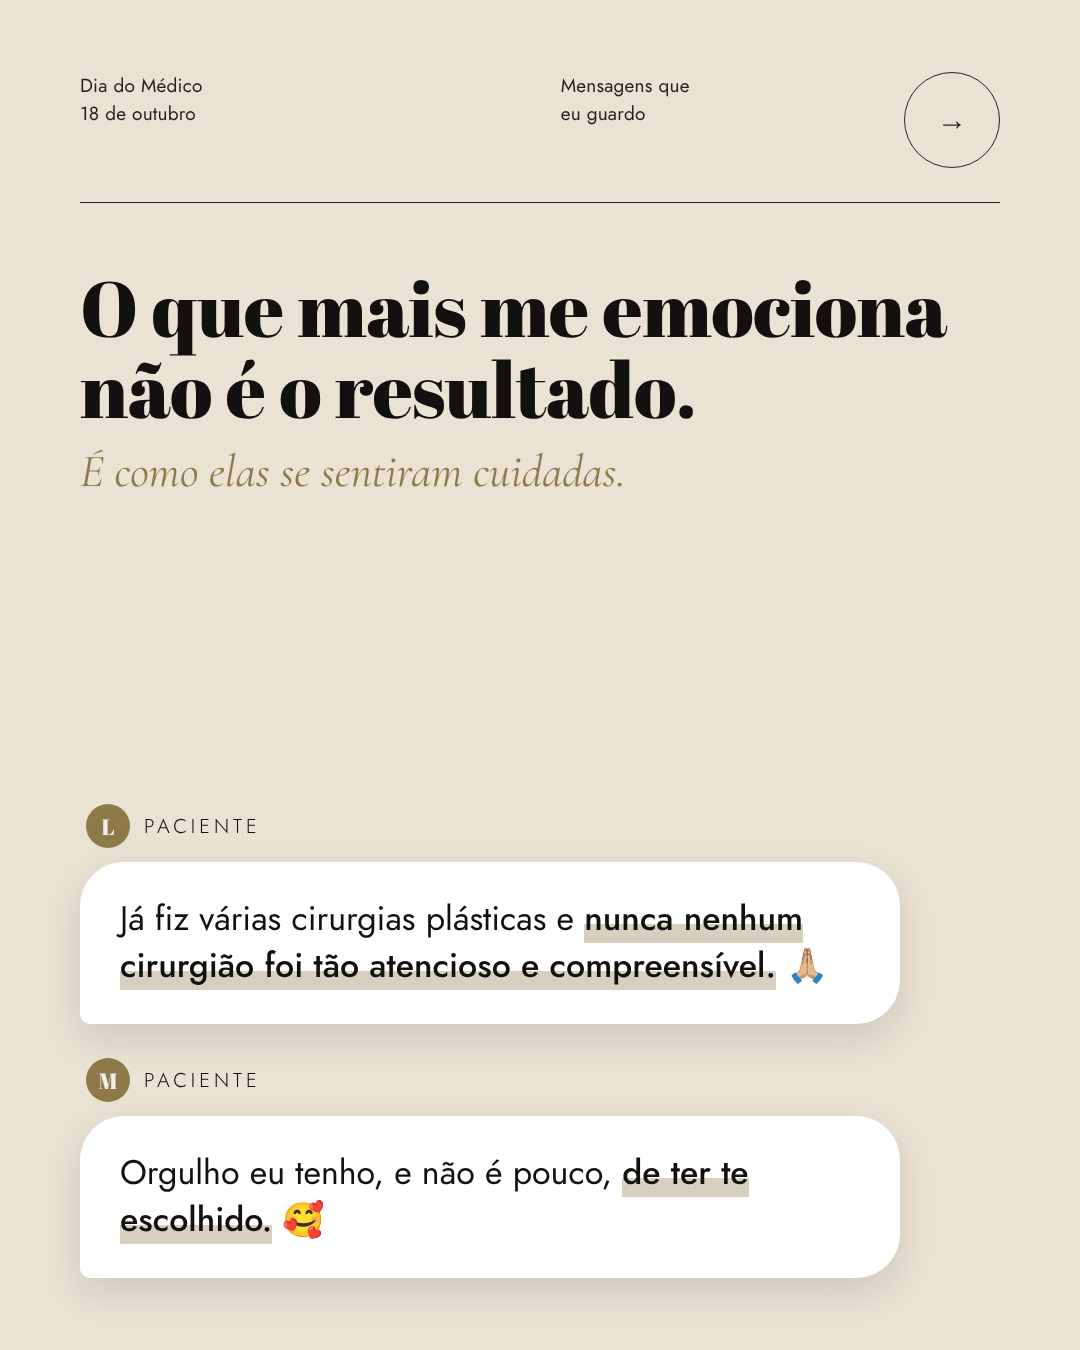
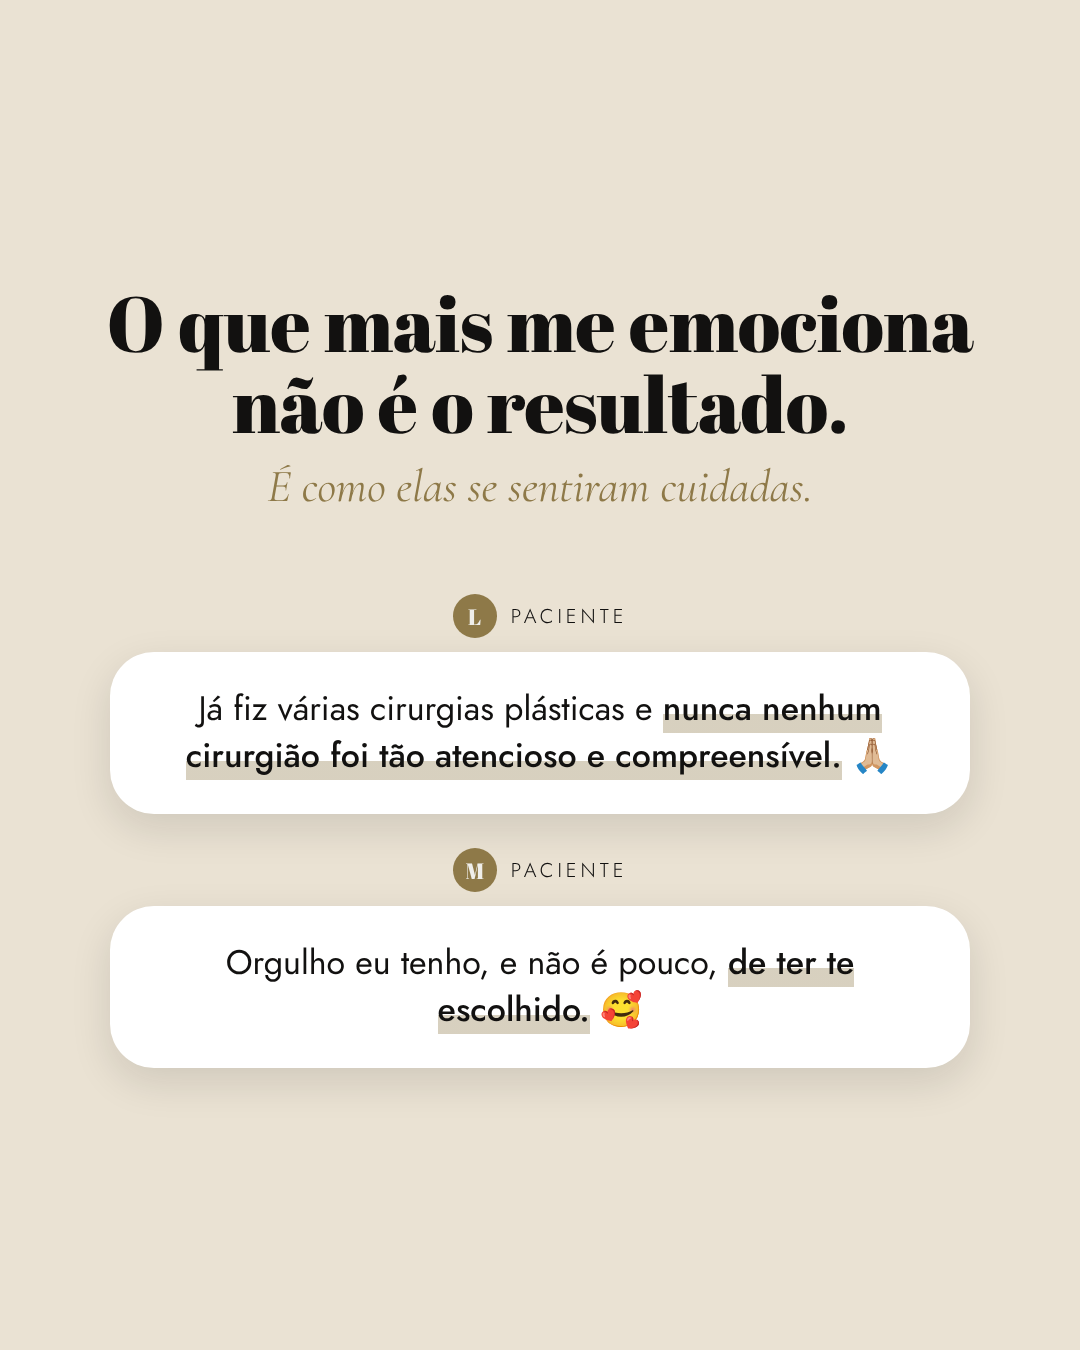
Remove slide markers and center testimonial slide
Claude-Session: https://claude.ai/code/session_01GVhh6PVXGt4EJQoc58yRio

diff --git a/carrossel-dia-do-medico/carrossel.html b/carrossel-dia-do-medico/carrossel.html
@@ -82,13 +82,11 @@
 <!-- 01 · CAPA -->
 <section class="slide s1" id="s1">
   <div class="photo"></div><div class="shade"></div>
-  <div class="hd"><div>Dia do Médico<br>18 de outubro</div><div>Mensagens que<br>eu guardo</div><div class="num" style="font-family:Jost;font-weight:300">→</div></div>
   <div class="content">
     <span class="pill" style="color:var(--beige);background:rgba(142,121,72,.9);border-color:var(--gold)">18.10 · Dia do Médico</span>
     <h1 class="fat" style="margin-top:30px;font-size:96px">Hoje é Dia do Médico. Mas quem ganhou <em>presente</em> fui eu.</h1>
     <div class="swipe">
       <img class="logo" src="assets/logo_light.png" alt="GAB Plástica e Estética">
-      <span class="caps" style="font-size:18px">Arraste &nbsp;→</span>
     </div>
   </div>
 </section>
@@ -98,7 +96,6 @@
   <div class="bg" style="background-image:url(assets/foto_olhar2.jpg);background-position:center 20%"></div>
   <div class="sh" style="background:linear-gradient(180deg,rgba(18,17,16,.55) 0%,rgba(18,17,16,0) 22%,rgba(18,17,16,0) 40%,rgba(18,17,16,.8) 75%)"></div>
   <div class="in">
-    <div class="hd" style="color:var(--off);border-color:var(--off)"><div>Dia do Médico<br>18 de outubro</div><div>Mensagens que<br>eu guardo</div><div class="num" style="font-family:Jost;font-weight:300">→</div></div>
     <div style="margin-top:auto">
       <div class="who"><i>A</i>Paciente</div>
       <div class="bub">Parabéns, Dr, pelo seu dia 👏🏼🙏🏼 Ser operada por você foi <b>uma das melhores coisas que me aconteceram nesse ano.</b></div>
@@ -113,7 +110,6 @@
   <div class="bg" style="background-image:url(assets/foto_picasso.jpg);background-position:30% center"></div>
   <div class="sh" style="background:linear-gradient(180deg,rgba(18,17,16,.6) 0%,rgba(18,17,16,.15) 25%,rgba(18,17,16,.55) 45%,rgba(18,17,16,.92) 80%)"></div>
   <div class="in">
-    <div class="hd" style="color:var(--off);border-color:var(--off)"><div>Dia do Médico<br>18 de outubro</div><div>Mensagens que<br>eu guardo</div><div class="num" style="font-family:Jost;font-weight:300">→</div></div>
     <div style="margin-top:auto">
       <p class="fat" style="font-size:64px;margin-bottom:34px">Ela me pediu para operar 6 meses depois do parto. Eu disse “ainda não”.</p>
       <div class="who"><i>K</i>Paciente, depois da cirurgia</div>
@@ -124,27 +120,24 @@
 
 <!-- 04 · CUIDADO -->
 <section class="slide beige" id="s4">
-  <div class="hd"><div>Dia do Médico<br>18 de outubro</div><div>Mensagens que<br>eu guardo</div><div class="num" style="font-family:Jost;font-weight:300">→</div></div>
-  <h2 class="fat" style="font-size:78px;margin-top:64px">O que mais me emociona não é o resultado.</h2>
+  <div style="margin:auto 0;text-align:center"><h2 class="fat" style="font-size:78px">O que mais me emociona não é o resultado.</h2>
   <p class="it" style="font-size:46px;color:var(--gold);margin-top:14px">É como elas se sentiram cuidadas.</p>
-  <div style="margin-top:auto">
-    <div class="who"><i>L</i>Paciente</div>
-    <div class="bub" style="box-shadow:0 14px 40px rgba(18,17,16,.12);background:#fff">Já fiz várias cirurgias plásticas e <b>nunca nenhum cirurgião foi tão atencioso e compreensível.</b> 🙏🏼</div>
-    <div class="who" style="margin-top:34px"><i>M</i>Paciente</div>
-    <div class="bub" style="box-shadow:0 14px 40px rgba(18,17,16,.12);background:#fff">Orgulho eu tenho, e não é pouco, <b>de ter te escolhido.</b> 🥰</div>
-  </div>
+  <div style="margin-top:80px">
+    <div class="who" style="justify-content:center;margin-left:0"><i>L</i>Paciente</div>
+    <div class="bub" style="box-shadow:0 14px 40px rgba(18,17,16,.12);background:#fff;margin:0 auto;text-align:center;max-width:860px;border-radius:44px">Já fiz várias cirurgias plásticas e <b>nunca nenhum cirurgião foi tão atencioso e compreensível.</b> 🙏🏼</div>
+    <div class="who" style="justify-content:center;margin:34px 0 14px"><i>M</i>Paciente</div>
+    <div class="bub" style="box-shadow:0 14px 40px rgba(18,17,16,.12);background:#fff;margin:0 auto;text-align:center;max-width:860px;border-radius:44px">Orgulho eu tenho, e não é pouco, <b>de ter te escolhido.</b> 🥰</div>
+  </div></div>
 </section>
 
 <!-- 05 · FECHAMENTO -->
 <section class="slide gold" id="s5">
-  <div class="hd"><div>Dia do Médico<br>18 de outubro</div><div>Mensagens que<br>eu guardo</div><div class="num" style="font-family:Jost;font-weight:300">♡</div></div>
-  <div style="margin-top:90px">
+  <div style="margin:auto 0">
     <p class="caps">Feliz Dia do Médico</p>
     <h2 class="fat" style="font-size:96px;margin-top:26px">Cada mensagem dessas me lembra por que eu escolhi a medicina.</h2>
-    <div class="dash"></div>
-    <p class="it" style="font-size:52px;line-height:1.2;color:var(--off)">Obrigado por confiarem em mim.<br>O presente é meu.</p>
+        <p class="it" style="font-size:52px;line-height:1.2;color:var(--off);margin-top:40px">Obrigado por confiarem em mim.<br>O presente é meu.</p>
   </div>
-  <div class="foot" style="border-top:1.5px solid var(--ink);padding-top:26px">
+  <div class="foot" style="">
     <img class="logo" src="assets/logo_dark.png" alt="GAB Plástica e Estética">
     <span style="text-align:right;line-height:1.5">Dr. George Augusto Bittencourt<br>Cirurgião Plástico · CRM-SP 000000 · RQE 0000</span>
   </div>
